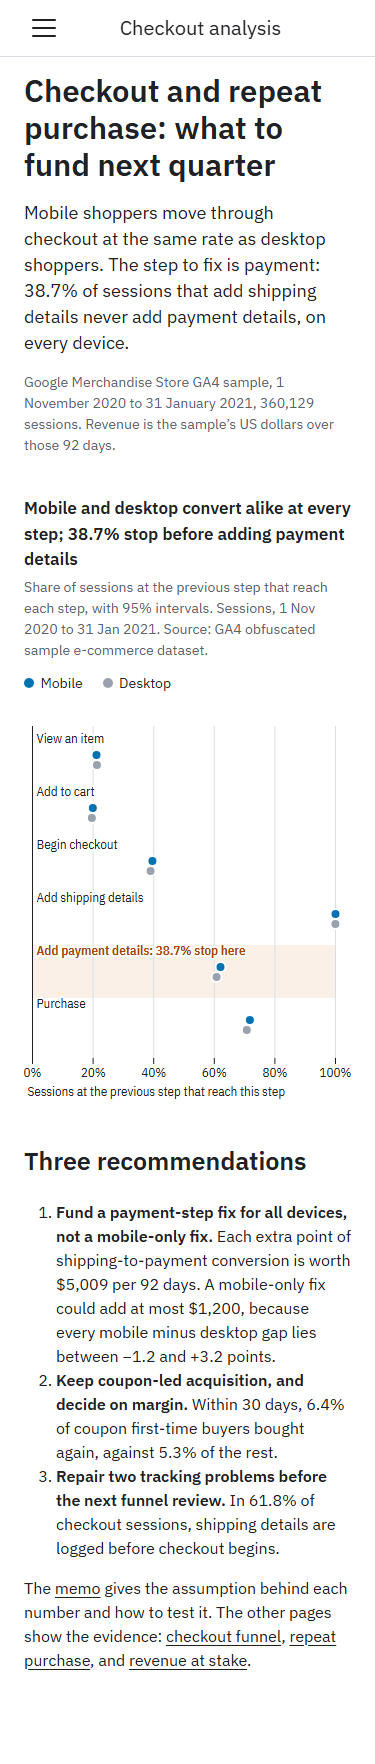
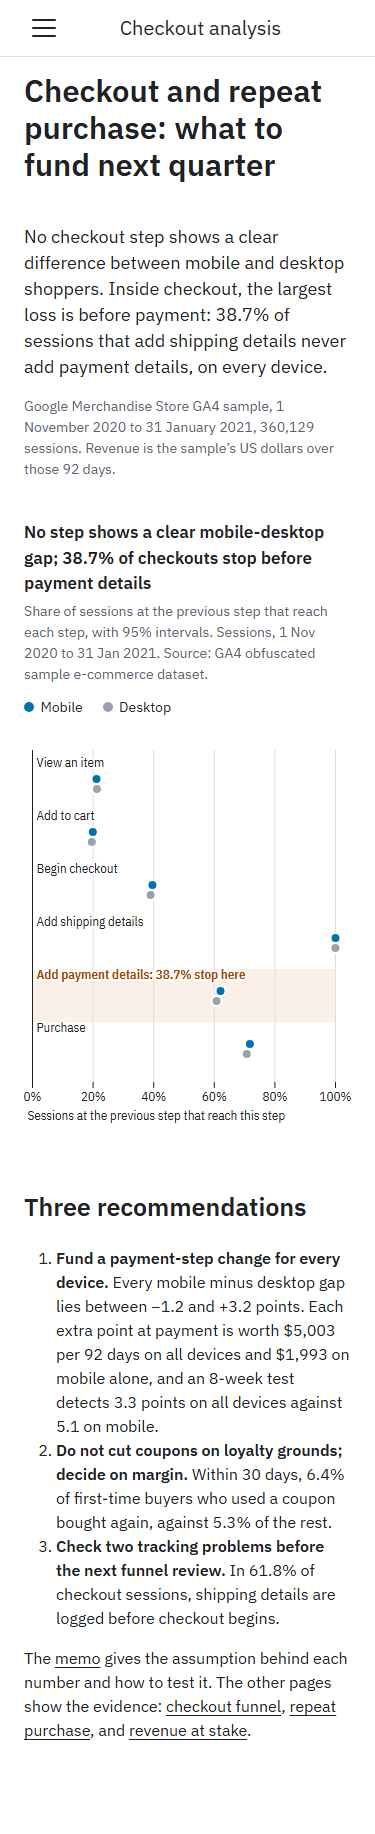
Re-record screenshots and demo after the content changes
Their numbers now match the current result files.

diff --git a/report/theme.scss b/report/theme.scss
@@ -222,9 +222,12 @@ table.data-table tr.highlight td {
   min-height: 470px;
 }
 
-.slot-repeat,
-.slot-revenue {
+.slot-repeat {
   min-height: 600px;
+}
+
+.slot-revenue {
+  min-height: 440px;
 }
 
 .slot-table {
@@ -233,9 +236,12 @@ table.data-table tr.highlight td {
 
 @media (max-width: 575px) {
   .slot-ladder,
-  .slot-repeat,
-  .slot-revenue {
+  .slot-repeat {
     min-height: 680px;
+  }
+
+  .slot-revenue {
+    min-height: 520px;
   }
 }
 

diff --git a/docs/design-review.md b/docs/design-review.md
@@ -85,3 +85,12 @@ Not fixed:
   in full. Tables and charts handle zero rows with the same message as the error state.
 - Long text and large numbers: the longest labels ("Add shipping details", "Coupon at first
   purchase") and the largest counts (205,899) were checked at 375 px.
+
+## Content update after the outside review (2026-11-11)
+
+Not a design round: the memo's claims changed (see docs/decisions.md, "Revisions after an outside
+review"). The revenue page's chart now compares the lift an 8-week test detects on all devices
+and on mobile only; its reserved height was cut from 600 to 440 px to match. The overview's chart
+title and lede now describe a null result as a range. All 18 page and width combinations were
+captured again: axe 0 violations, no sideways scroll. Screenshots and the demo were re-recorded so
+their numbers match the current result files.
